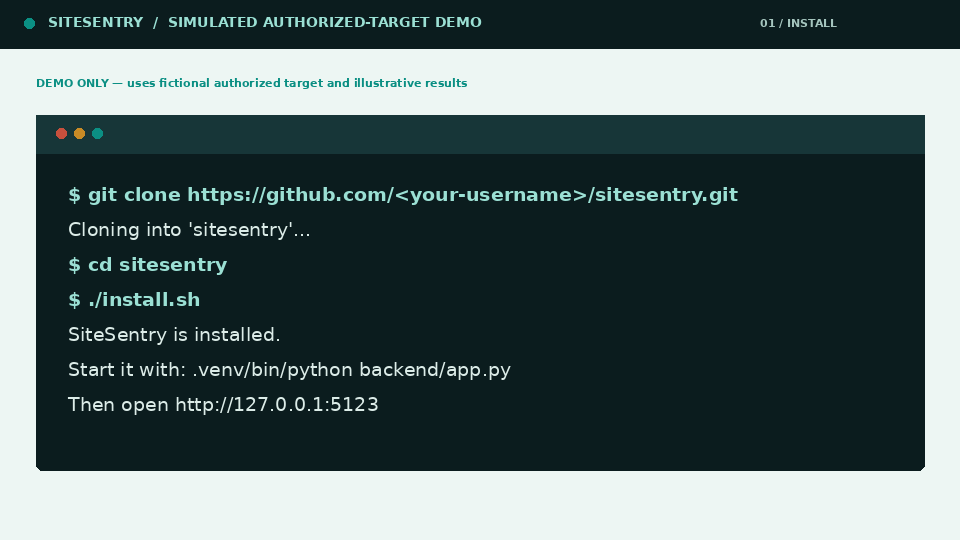
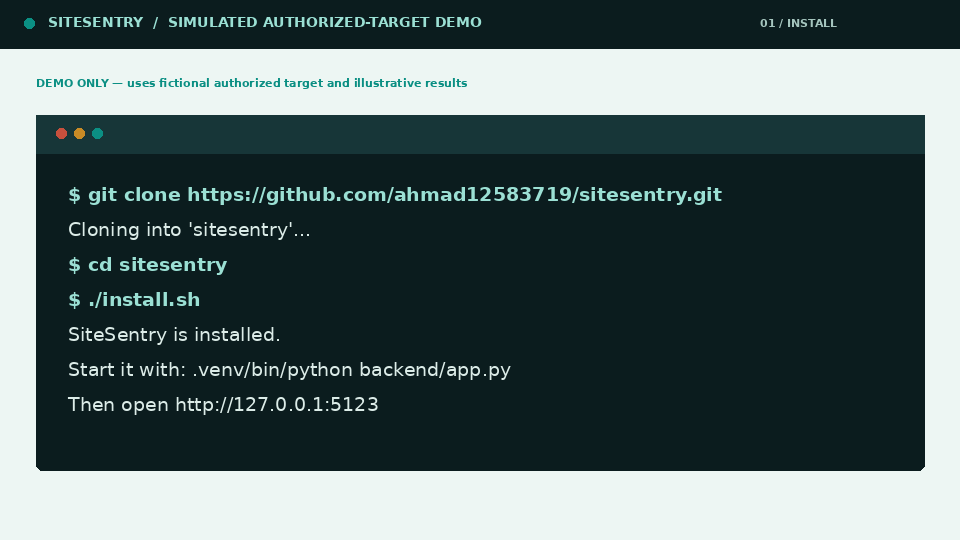
docs: align walkthrough visuals with repository URL

Changed region(s): [[0.4062, 0.3259, 0.7812, 0.3852]]

diff --git a/scripts/create_demo_gif.py b/scripts/create_demo_gif.py
@@ -41,7 +41,7 @@ def terminal_frame():
     draw.ellipse((74, 128, 84, 138), fill=AMBER)
     draw.ellipse((92, 128, 102, 138), fill=TEAL)
     lines = [
-        "$ git clone https://github.com/<your-username>/sitesentry.git",
+        "$ git clone https://github.com/ahmad12583719/sitesentry.git",
         "Cloning into 'sitesentry'...",
         "$ cd sitesentry",
         "$ ./install.sh",
